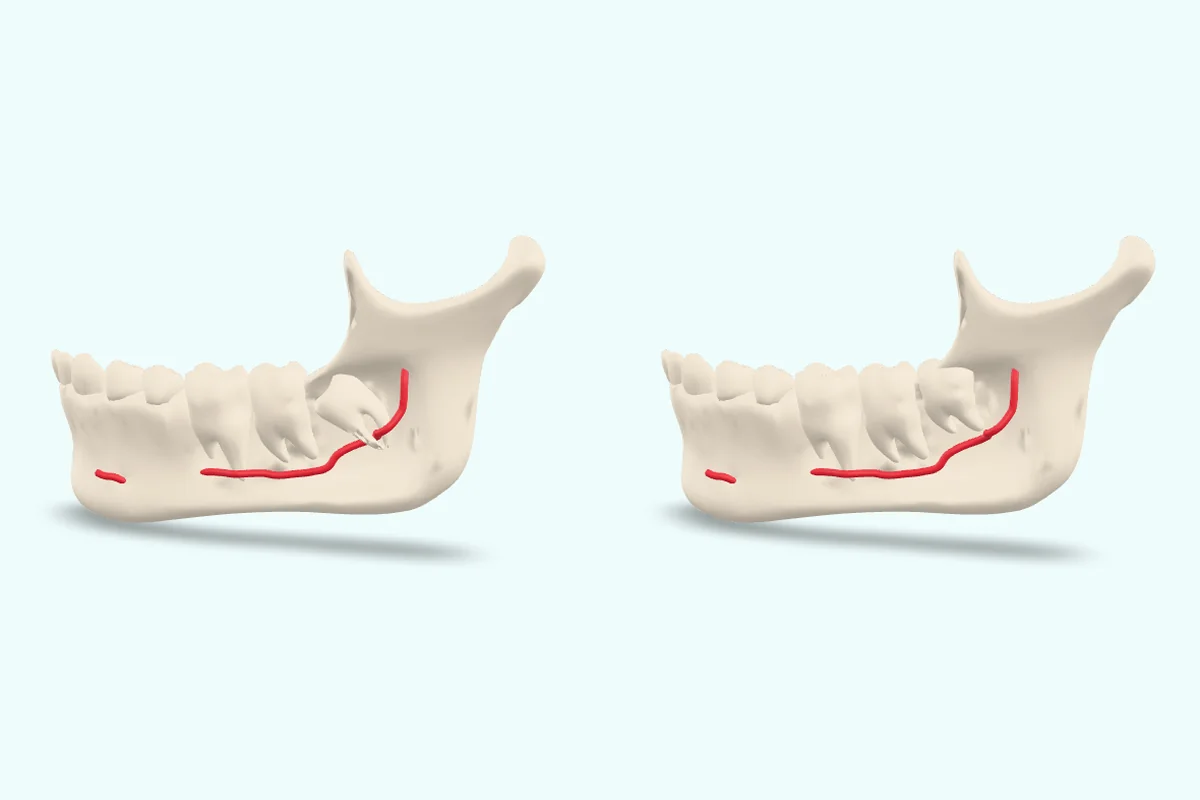
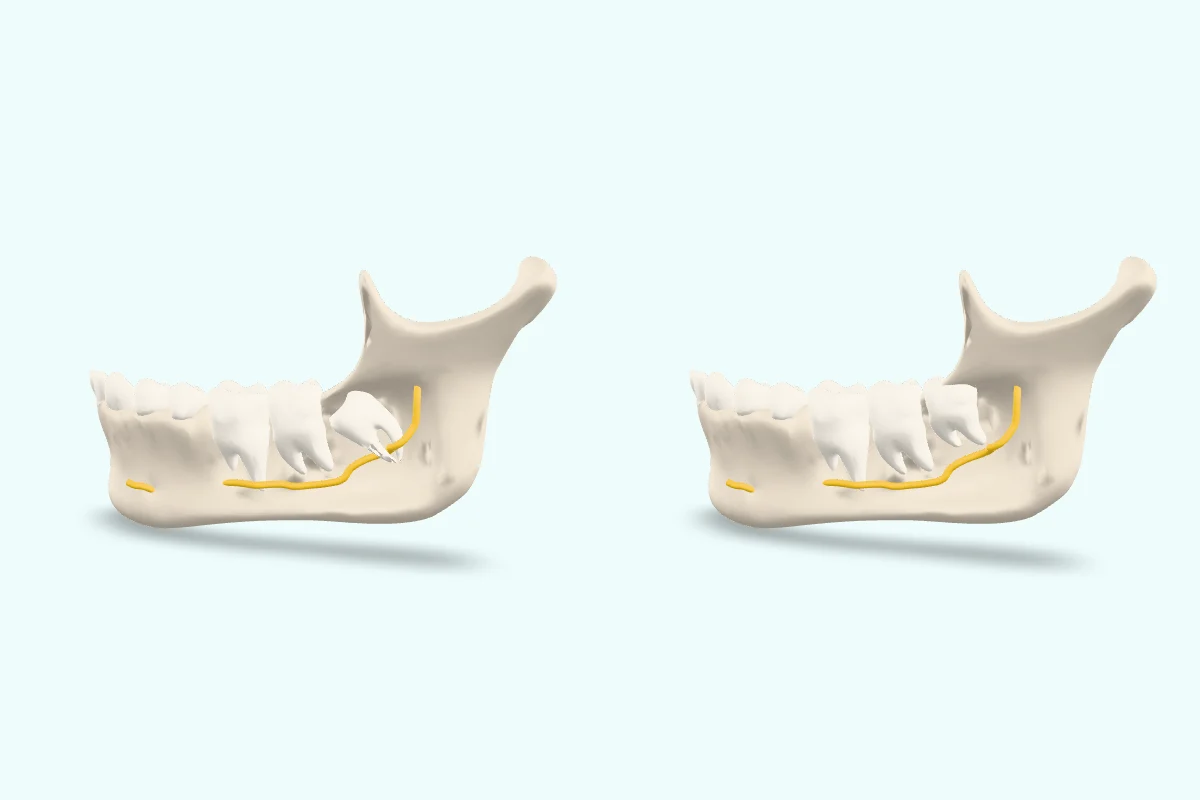
Wisdom tooth model: realistic white teeth and yellow inferior alveolar nerve
Teeth (incl. the wisdom tooth) set to a warm white (sRGB #F3EEE4); nerve material
renamed to 'nerve' and set to yellow (sRGB #F2C230). Bone unchanged. Screenshots
re-rendered, EN/JA alt text and descriptions updated, version 1.3.

Claude-Session: https://claude.ai/code/session_01UV5FQxptVrY9wsgabxctyH

Changed region(s): [[0.0308, 0.2812, 0.4625, 0.7188], [0.555, 0.2812, 0.9867, 0.7188]]

diff --git a/app/i18n/dictionaries/ja.ts b/app/i18n/dictionaries/ja.ts
@@ -552,8 +552,8 @@ const ja: Dictionary = {
     how: '3Dビューアーを{試|ため}す',
     accessLabel: '{利用|りよう}についての{約束|やくそく}',
     access: ['{無料|むりょう}で{使|つか}える', 'オープンアクセス', '{画面|がめん}でも{印刷|いんさつ}でも', '{正常|せいじょう}{模型|もけい}と{比較|ひかく}'],
-    imageAlt: '{左|ひだり}{下|した}あごの3D{模型|もけい}。{埋伏|まいふく}した{親知|おやし}らずが{第二|だいに}{大臼歯|だいきゅうし}に{向|む}かって{傾|かたむ}き、その{根|ね}が{赤|あか}で{示|しめ}した{神経|しんけい}の{近|ちか}くにある。',
-    caption: '{埋伏|まいふく}した{下|した}の{親知|おやし}らず（{赤|あか}は{神経|しんけい}）。Vivathecaの{模型|もけい}のスクリーンショット。',
+    imageAlt: '{左|ひだり}{下|した}あごの3D{模型|もけい}。{埋伏|まいふく}した{親知|おやし}らずが{第二|だいに}{大臼歯|だいきゅうし}に{向|む}かって{傾|かたむ}き、その{根|ね}が{黄色|きいろ}で{示|しめ}した{神経|しんけい}の{近|ちか}くにある。',
+    caption: '{埋伏|まいふく}した{下|した}の{親知|おやし}らず（{黄色|きいろ}は{神経|しんけい}）。Vivathecaの{模型|もけい}のスクリーンショット。',
   },
   origin: {
     label: 'オーストラリア{発|はつ}',
@@ -1091,8 +1091,8 @@ const ja: Dictionary = {
     title: '埋伏した下の親知らずと比較用の正常模型 — Vivatheca',
     description: '下歯槽神経の近くにある埋伏した下の親知らずの無料3D模型と、比較用の正常なあごの模型。GLB・STLのダウンロード、出典、ライセンス。',
     breadcrumb: 'パンくずリスト',
-    impactedAlt: '{左|ひだり}{下|した}あご。{埋伏|まいふく}した{親知|おやし}らずが{前|まえ}に{傾|かたむ}いて{第二|だいに}{大臼歯|だいきゅうし}にぶつかり、その{根|ね}が{赤|あか}で{示|しめ}した{下歯槽|かしそう}{神経|しんけい}をはさんでいる。',
-    normalAlt: '{同|おな}じ{左|ひだり}{下|した}あごで、{親知|おやし}らずがまっすぐ{生|は}え、ほかの{大臼歯|だいきゅうし}と{並|なら}んでいる。{下歯槽|かしそう}{神経|しんけい}は{根|ね}の{下|した}に{赤|あか}で{示|しめ}している。',
+    impactedAlt: '{左|ひだり}{下|した}あご。{埋伏|まいふく}した{親知|おやし}らずが{前|まえ}に{傾|かたむ}いて{第二|だいに}{大臼歯|だいきゅうし}にぶつかり、その{根|ね}が{黄色|きいろ}で{示|しめ}した{下歯槽|かしそう}{神経|しんけい}をはさんでいる。',
+    normalAlt: '{同|おな}じ{左|ひだり}{下|した}あごで、{親知|おやし}らずがまっすぐ{生|は}え、ほかの{大臼歯|だいきゅうし}と{並|なら}んでいる。{下歯槽|かしそう}{神経|しんけい}は{根|ね}の{下|した}に{黄色|きいろ}で{示|しめ}している。',
     download: 'ダウンロード',
     files: ['{埋伏|まいふく} · GLB（ウェブ・AR{用|よう}）', '{埋伏|まいふく} · STL（{印刷用|いんさつよう}、mm、{説明書|せつめいしょ}{付|つ}きZIP）', '{正常|せいじょう} · GLB（ウェブ・AR{用|よう}）', '{正常|せいじょう} · STL（{印刷用|いんさつよう}、mm、{説明書|せつめいしょ}{付|つ}きZIP）'],
     licence: 'ライセンス：',
@@ -1108,7 +1108,7 @@ const ja: Dictionary = {
     shows: [
       '{下顎|かがく}の{左|ひだり}{半分|はんぶん}。{頬側|きょうそく}の{骨|ほね}を{取|と}り{除|のぞ}き、{歯根|しこん}と{神経|しんけい}が{見|み}えるようにしています。',
       '{近心|きんしん}{傾斜|けいしゃ}して{埋伏|まいふく}した{左側|ひだりがわ}{下顎|かがく}{第三|だいさん}{大臼歯|だいきゅうし}（38）が、{第二|だいに}{大臼歯|だいきゅうし}の{遠心面|えんしんめん}に{接|せっ}しています。[1]',
-      '{下顎管|かがくかん}{内|ない}の{下歯槽|かしそう}{神経|しんけい}（{赤|あか}）が、{第三|だいさん}{大臼歯|だいきゅうし}の{歯根|しこん}の{間|あいだ}を{通|とお}っています。[2][6]これは{頻度|ひんど}は{低|ひく}いもののリスクの{高|たか}い{位置|いち}{関係|かんけい}で、{多|おお}くの{場合|ばあい}、{下顎管|かがくかん}は{歯根|しこん}の{下|した}か{横|よこ}にあります。[3][7][8]3つの{研究|けんきゅう}のメタアナリシスでは、CBCTはパノラマX{線|せん}{写真|しゃしん}よりこの{位置|いち}{関係|かんけい}を{正確|せいかく}に{示|しめ}しました。[5]しかし、ランダム{化|か}{比較|ひかく}{試験|しけん}では、{抜歯|ばっし}{前|まえ}のCBCTで{神経|しんけい}{損傷|そんしょう}は{減|へ}りませんでした。[9]',
+      '{下顎管|かがくかん}{内|ない}の{下歯槽|かしそう}{神経|しんけい}（{黄色|きいろ}）が、{第三|だいさん}{大臼歯|だいきゅうし}の{歯根|しこん}の{間|あいだ}を{通|とお}っています。[2][6]これは{頻度|ひんど}は{低|ひく}いもののリスクの{高|たか}い{位置|いち}{関係|かんけい}で、{多|おお}くの{場合|ばあい}、{下顎管|かがくかん}は{歯根|しこん}の{下|した}か{横|よこ}にあります。[3][7][8]3つの{研究|けんきゅう}のメタアナリシスでは、CBCTはパノラマX{線|せん}{写真|しゃしん}よりこの{位置|いち}{関係|かんけい}を{正確|せいかく}に{示|しめ}しました。[5]しかし、ランダム{化|か}{比較|ひかく}{試験|しけん}では、{抜歯|ばっし}{前|まえ}のCBCTで{神経|しんけい}{損傷|そんしょう}は{減|へ}りませんでした。[9]',
       '{神経|しんけい}は{下顎枝|かがくし}の{内側|ないそく}、{下顎小舌|かがくしょうぜつ}の{近|ちか}くで{下顎管|かがくかん}に{入|はい}ります。[2][4]',
     ],
     normalHeading: '{正常|せいじょう}{模型|もけい}の{作|つく}り{方|かた}',
@@ -1126,6 +1126,7 @@ const ja: Dictionary = {
     sourcesNote: 'Vivathecaの{創設者|そうせつしゃ}、Luke Seifertが{一|いち}から{作成|さくせい}しました。{他|ほか}の{団体|だんたい}やライブラリの{形状|けいじょう}データは{使|つか}っていません。{下|した}の{出典|しゅってん}は、この{模型|もけい}が{示|しめ}す{解剖|かいぼう}と{用語|ようご}の{裏付|うらづ}けです。{患者|かんじゃ}のスキャンや、これらの{研究|けんきゅう}の{計測値|けいそくち}から{作|つく}ったものではありません。{出典|しゅってん}は{英語|えいご}です。',
     changelogHeading: '{変更|へんこう}{履歴|りれき}',
     changelog: [
+      { version: '1.3', text: '{歯|は}を{自然|しぜん}な{白|しろ}い{歯|は}の{色|いろ}に、{下歯槽|かしそう}{神経|しんけい}を{黄色|きいろ}にしました。{骨|ほね}の{色|いろ}は{変|か}わりません。' },
       { version: '1.2', text: '{歯|は}を{骨|ほね}より{少|すこ}し{明|あか}るい{歯|は}の{色|いろ}にしました（ほかのVivatheca{模型|もけい}と{同|おな}じ）。STLファイルは、{確認|かくにん}{状況|じょうきょう}・{免責|めんせき}{事項|じこう}・ライセンスを{書|か}いた{説明書|せつめいしょ}{付|つ}きのZIPになりました。' },
       { version: '1.1', text: '{比較用|ひかくよう}の{正常|せいじょう}なあごと、{両方|りょうほう}の{模型|もけい}のSTLファイルを{追加|ついか}。' },
       { version: '1.0', text: 'Vivathecaの{親知|おやし}らず{患者|かんじゃ}{説明|せつめい}プロジェクトから、{神経|しんけい}を{赤|あか}で{示|しめ}したカラー{模型|もけい}に{更新|こうしん}。' },
@@ -1144,7 +1145,7 @@ const ja: Dictionary = {
     normal: '{正常|せいじょう}',
     together: '{両方|りょうほう}を{一緒|いっしょ}に{回|まわ}す',
     diffLead: '{違|ちが}うのは{親知|おやし}らずだけです。',
-    diff: '{埋伏|まいふく}：{前|まえ}に{傾|かたむ}いて{第二|だいに}{大臼歯|だいきゅうし}にぶつかり、{根|ね}が{神経|しんけい}（{赤|あか}）をはさんでいる。{正常|せいじょう}：まっすぐ{生|は}えて、ほかの{大臼歯|だいきゅうし}と{並|なら}んでいる。',
+    diff: '{埋伏|まいふく}：{前|まえ}に{傾|かたむ}いて{第二|だいに}{大臼歯|だいきゅうし}にぶつかり、{根|ね}が{神経|しんけい}（{黄色|きいろ}）をはさんでいる。{正常|せいじょう}：まっすぐ{生|は}えて、ほかの{大臼歯|だいきゅうし}と{並|なら}んでいる。',
     impactedCaption: '{埋伏|まいふく}（{近心|きんしん}{傾斜|けいしゃ}）',
     normalCaption: '{比較用|ひかくよう}の{正常|せいじょう}（{萌出|ほうしゅつ}）',
     failed: '3Dビューアーを{読|よ}み{込|こ}めませんでした。{下|した}のダウンロードリンクから{模型|もけい}を{開|ひら}いてください。',

diff --git a/app/i18n/dictionaries/en.ts b/app/i18n/dictionaries/en.ts
@@ -553,8 +553,8 @@ const en = {
     how: 'Try the 3D viewer',
     accessLabel: 'Access commitments',
     access: ['Free to use', 'Open access', 'View digitally or print', 'Matched normal'],
-    imageAlt: '3D model of a lower left jaw with an impacted wisdom tooth tilted against the second molar, its roots close to the nerve shown in red.',
-    caption: 'Impacted lower wisdom tooth, with the nerve in red. Screenshot of the Vivatheca model.',
+    imageAlt: '3D model of a lower left jaw with an impacted wisdom tooth tilted against the second molar, its roots close to the nerve shown in yellow.',
+    caption: 'Impacted lower wisdom tooth, with the nerve in yellow. Screenshot of the Vivatheca model.',
   },
   origin: {
     label: 'Australian origin',
@@ -1020,8 +1020,8 @@ const en = {
     title: 'Impacted lower wisdom tooth and matched normal — Vivatheca',
     description: 'Free 3D model of an impacted lower wisdom tooth near the inferior alveolar nerve, with a matched normal jaw. GLB and STL downloads, sources and licence.',
     breadcrumb: 'Breadcrumb',
-    impactedAlt: 'Lower left jaw with an impacted wisdom tooth tilted forward against the second molar. Its roots wrap around the inferior alveolar nerve, shown in red.',
-    normalAlt: 'The same lower left jaw with the wisdom tooth erupted and upright, in line with the other molars. The inferior alveolar nerve is shown in red below the roots.',
+    impactedAlt: 'Lower left jaw with an impacted wisdom tooth tilted forward against the second molar. Its roots wrap around the inferior alveolar nerve, shown in yellow.',
+    normalAlt: 'The same lower left jaw with the wisdom tooth erupted and upright, in line with the other molars. The inferior alveolar nerve is shown in yellow below the roots.',
     download: 'Download',
     files: ['Impacted · GLB (web and AR)', 'Impacted · STL for printing, mm (ZIP with read-me)', 'Normal · GLB (web and AR)', 'Normal · STL for printing, mm (ZIP with read-me)'],
     licence: 'Licence:',
@@ -1037,7 +1037,7 @@ const en = {
     shows: [
       'Left half of the lower jaw, with cheek-side bone cut away so the tooth roots and the nerve can be seen.',
       'A mesioangular impacted lower left third molar (tooth 38) against the distal surface of the second molar.[1]',
-      'The inferior alveolar nerve (red) in the mandibular canal, passing between the third molar roots.[2][6] This is a less common, higher-risk arrangement; more often the canal lies below or beside the roots.[3][7][8] CBCT showed this relationship more accurately than a panoramic X-ray in a meta-analysis of three studies,[5] but a randomised trial found that CBCT before removal did not reduce nerve injury.[9]',
+      'The inferior alveolar nerve (yellow) in the mandibular canal, passing between the third molar roots.[2][6] This is a less common, higher-risk arrangement; more often the canal lies below or beside the roots.[3][7][8] CBCT showed this relationship more accurately than a panoramic X-ray in a meta-analysis of three studies,[5] but a randomised trial found that CBCT before removal did not reduce nerve injury.[9]',
       'The nerve rising to enter the mandibular canal on the inner side of the ramus, near the lingula.[2][4]',
     ],
     normalHeading: 'How the normal was made',
@@ -1055,6 +1055,7 @@ const en = {
     sourcesNote: 'Modelled from scratch by Luke Seifert, Vivatheca’s founder; no third-party or library mesh was used. The sources below support the anatomy and terms the model shows; it was not built from a patient scan or from measurements in these studies.',
     changelogHeading: 'Change log',
     changelog: [
+      { version: '1.3', text: 'Teeth are now a realistic white tooth colour and the inferior alveolar nerve is yellow. The bone colour is unchanged.' },
       { version: '1.2', text: 'Teeth are now tooth-coloured, slightly lighter than the bone, as in every other Vivatheca model. STL files now come in a ZIP with a read-me that holds the review status, the disclaimer and the licence.' },
       { version: '1.1', text: 'Added the matched normal jaw and STL files for both models.' },
       { version: '1.0', text: 'Updated to the coloured model with the nerve in red, from Vivatheca’s wisdom tooth patient information project.' },
@@ -1073,7 +1074,7 @@ const en = {
     normal: 'Normal',
     together: 'Turn both together',
     diffLead: 'Only the wisdom tooth differs.',
-    diff: 'Impacted: tilted forward against the second molar, roots around the nerve (red). Normal: upright and erupted, in line with the other molars.',
+    diff: 'Impacted: tilted forward against the second molar, roots around the nerve (yellow). Normal: upright and erupted, in line with the other molars.',
     impactedCaption: 'Impacted (mesioangular)',
     normalCaption: 'Matched normal (erupted)',
     failed: 'The 3D viewer could not load. Use the download links below to open the model.',

diff --git a/app/models/catalogue.ts b/app/models/catalogue.ts
@@ -16,7 +16,7 @@ export const licence = {
 };
 
 export const catalogue: CatalogueModel[] = [
-  { slug: 'impacted-wisdom-tooth', href: '/models/impacted-wisdom-tooth', image: '/assets/renders/wisdom-tooth-compare.webp', version: '1.2', updated: '2026-11-06' },
+  { slug: 'impacted-wisdom-tooth', href: '/models/impacted-wisdom-tooth', image: '/assets/renders/wisdom-tooth-compare.webp', version: '1.3', updated: '2026-11-06' },
   { slug: 'dental-development', href: '/development/', image: '/assets/renders/dental-development.webp', version: '0.4', updated: '2026-11-05' },
   { slug: 'periodontitis', href: '/periodontitis/', image: '/assets/renders/periodontitis.webp', version: '0.1', updated: '2026-11-05' },
   { slug: 'oroantral', href: '/oroantral/', image: '/assets/renders/oroantral.webp', version: '0.2', updated: '2026-11-06' },
@@ -63,6 +63,6 @@ export const wisdomTooth = {
     { text: 'Ghaeminia H, Gerlach NL, Hoppenreijs TJM, et al. Clinical relevance of cone beam computed tomography in mandibular third molar removal: a multicentre, randomised, controlled trial. J Craniomaxillofac Surg. 2015;43(10):2158-2167. (Conflicting evidence: CBCT before removal did not reduce nerve injury compared with panoramic radiography.)', href: 'https://doi.org/10.1016/j.jcms.2015.10.009' },
     { text: 'Nelson SJ. Wheeler’s Dental Anatomy, Physiology and Occlusion. 11th ed. St Louis: Elsevier; 2020. Chapter on the permanent mandibular molars. (Third molars: smaller than second molars, variable crowns, often fused roots; basis for the note on how the normal was made.)', href: '' },
   ] satisfies Source[],
-  changelogDates: { '1.2': '2026-11-06', '1.1': '2026-11-05', '1.0': '2026-11-05' } as Record<string, string>,
-  citation: 'Seifert L. Vivatheca: Impacted lower wisdom tooth and matched normal, version 1.2. 2026. https://vivatheca.com/models/impacted-wisdom-tooth. Licensed under CC BY-SA 4.0. Accessed [date].',
+  changelogDates: { '1.3': '2026-11-06', '1.2': '2026-11-06', '1.1': '2026-11-05', '1.0': '2026-11-05' } as Record<string, string>,
+  citation: 'Seifert L. Vivatheca: Impacted lower wisdom tooth and matched normal, version 1.3. 2026. https://vivatheca.com/models/impacted-wisdom-tooth. Licensed under CC BY-SA 4.0. Accessed [date].',
 };

diff --git a/tools/wisdom-tooth/recolour.py b/tools/wisdom-tooth/recolour.py
@@ -1,9 +1,9 @@
-"""Give the wisdom tooth GLBs' teeth the shared tooth colour, slightly lighter than bone.
+"""Set the wisdom tooth GLBs' tooth and nerve colours.
 
-The site copies of impacted-molar.glb and wisdom-tooth-normal.glb had teeth and the
-wisdom tooth in the bone colour. Every other Vivatheca model uses bone linear
-(0.6724, 0.5972, 0.4969) and teeth linear (0.768, 0.716, 0.651), and the colour standard
-asks for teeth and bone in slightly different colours. Only material colours change.
+Luke (2026-11-06): teeth in a realistic white tooth colour, the inferior alveolar nerve
+in yellow, every other structure unchanged. Bone stays linear (0.6724, 0.5972, 0.4969),
+so teeth (sRGB #F3EEE4, slightly warm white) stay a little lighter than bone. The nerve
+material is renamed from "nerve red" to "nerve". Only material colours change.
 
 Usage: python3 tools/wisdom-tooth/recolour.py public/models/impacted-molar.glb public/models/wisdom-tooth-normal.glb
 """
@@ -11,7 +11,8 @@ import json
 import struct
 import sys
 
-TOOTH = [0.768, 0.716, 0.651, 1]
+TOOTH = [0.8963, 0.855, 0.7758, 1]   # sRGB #F3EEE4 in linear
+NERVE = [0.8879, 0.5395, 0.0296, 1]  # sRGB #F2C230 in linear
 
 for path in sys.argv[1:]:
     data = open(path, 'rb').read()
@@ -21,9 +22,12 @@ for path in sys.argv[1:]:
     for m in gltf['materials']:
         if m.get('name') in ('teeth', 'wisdom tooth'):
             m['pbrMetallicRoughness']['baseColorFactor'] = TOOTH
+        elif m.get('name') in ('nerve red', 'nerve'):
+            m['name'] = 'nerve'
+            m['pbrMetallicRoughness']['baseColorFactor'] = NERVE
     j = json.dumps(gltf, separators=(',', ':')).encode()
     j += b' ' * (-len(j) % 4)
     with open(path, 'wb') as fh:
         fh.write(struct.pack('<III', 0x46546C67, 2, 20 + len(j) + len(rest)))
         fh.write(struct.pack('<II', len(j), 0x4E4F534A) + j + rest)
-    print(path, 'teeth recoloured')
+    print(path, 'teeth and nerve recoloured')

diff --git a/tools/wisdom-tooth/make_print_zips.py b/tools/wisdom-tooth/make_print_zips.py
@@ -16,7 +16,7 @@ Full disclaimer: https://vivatheca.com/disclaimer
 What the model shows, what is simplified, and its sources: https://vivatheca.com/models/impacted-wisdom-tooth
 
 Modelled by Luke Seifert, Vivatheca. Licence: CC BY-SA 4.0 (https://creativecommons.org/licenses/by-sa/4.0/).
-How to credit: Seifert L. Vivatheca: Impacted lower wisdom tooth and matched normal, version 1.2. 2026. https://vivatheca.com/models/impacted-wisdom-tooth. Licensed under CC BY-SA 4.0. Accessed [date].
+How to credit: Seifert L. Vivatheca: Impacted lower wisdom tooth and matched normal, version 1.3. 2026. https://vivatheca.com/models/impacted-wisdom-tooth. Licensed under CC BY-SA 4.0. Accessed [date].
 """
 
 for key, stl, what in [('impacted', 'impacted-molar.stl', 'impacted lower wisdom tooth (mesioangular, tooth 38)'),
